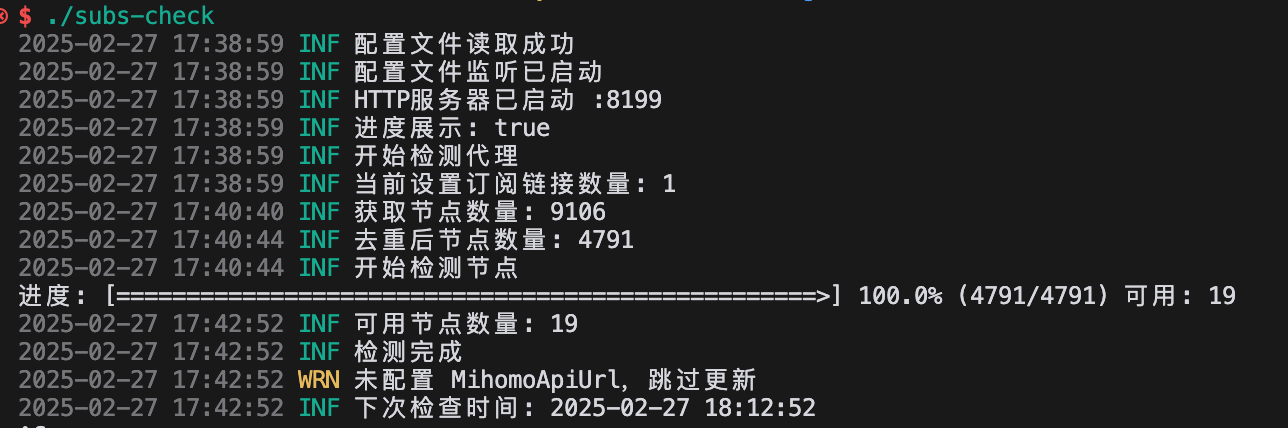
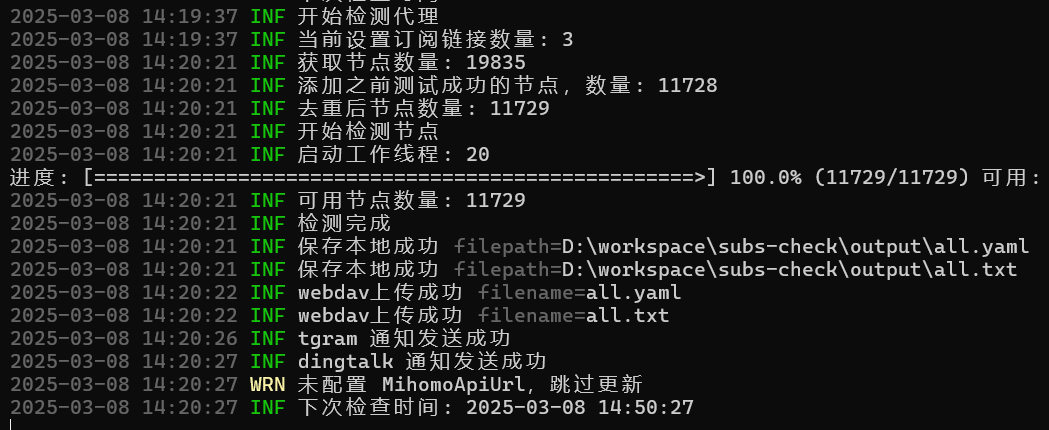
feat: 添加通知渠道

Changed region(s): [[0.0, 0.0, 0.9762, 1.0]]

diff --git a/utils/notify.go b/utils/notify.go
@@ -1,0 +1,70 @@
+package utils
+
+import (
+	"bytes"
+	"encoding/json"
+	"fmt"
+	"log/slog"
+	"net/http"
+	"strings"
+
+	"github.com/beck-8/subs-check/config"
+)
+
+// NotifyRequest 定义发送通知的请求结构
+type NotifyRequest struct {
+	URLs  string `json:"urls"`  // 通知目标的 URL（如 mailto://、discord://）
+	Body  string `json:"body"`  // 通知内容
+	Title string `json:"title"` // 通知标题（可选）
+}
+
+// Notify 发送通知
+func Notify(request NotifyRequest) error {
+	// 构建请求体
+	body, err := json.Marshal(request)
+	if err != nil {
+		return fmt.Errorf("构建请求体失败: %w", err)
+	}
+
+	// 发送请求
+	resp, err := http.Post(config.GlobalConfig.AppriseApiServer, "application/json", bytes.NewBuffer(body))
+	if err != nil {
+		return fmt.Errorf("发送请求失败: %w", err)
+	}
+	defer resp.Body.Close()
+
+	// 检查响应状态码
+	if resp.StatusCode != http.StatusOK {
+		return fmt.Errorf("通知失败，状态码: %d", resp.StatusCode)
+	}
+
+	return nil
+}
+
+func SendNotify(length int) {
+	if config.GlobalConfig.AppriseApiServer == "" {
+		return
+	} else if len(config.GlobalConfig.RecipientUrl) == 0 {
+		slog.Error("没有配置通知目标")
+		return
+	}
+
+	for _, url := range config.GlobalConfig.RecipientUrl {
+		request := NotifyRequest{
+			URLs:  url,
+			Body:  fmt.Sprintf("检测到 %d 个节点可用", length),
+			Title: "节点检测完成",
+		}
+		var err error
+		for i := 0; i < config.GlobalConfig.SubUrlsReTry; i++ {
+			err = Notify(request)
+			if err == nil {
+				slog.Info(fmt.Sprintf("%s 通知发送成功", strings.SplitN(url, "://", 2)[0]))
+				break
+			}
+		}
+		if err != nil {
+			slog.Error(fmt.Sprintf("%s 发送通知失败: %v", strings.SplitN(url, "://", 2)[0], err))
+		}
+	}
+}

diff --git a/config/config.go b/config/config.go
@@ -28,6 +28,8 @@ type Config struct {
 	RenameNode         bool     `yaml:"rename-node"`
 	KeepSuccessProxies bool     `yaml:"keep-success-proxies"`
 	OutputDir          string   `yaml:"output-dir"`
+	AppriseApiServer   string   `yaml:"apprise-api-server"`
+	RecipientUrl       []string `yaml:"recipient-url"`
 }
 
 var GlobalConfig = &Config{

diff --git a/main.go b/main.go
@@ -210,6 +210,7 @@ func (app *App) checkProxies() error {
 
 	slog.Info("检测完成")
 	save.SaveConfig(results)
+	utils.SendNotify(len(results))
 	utils.UpdateSubs()
 	return nil
 }

diff --git a/README.md b/README.md
@@ -7,7 +7,9 @@
 ## 预览
 
 ![preview](./doc/images/preview.png)
-![result](./doc/images/results.jpg)
+![result](./doc/images/results.png)
+![tgram](./doc/images/tgram.png)
+![dingtalk](./doc/images/dingtalk.png)
 
 ## 功能
 
@@ -25,6 +27,7 @@
 - 节点测速（单线程）
 - 根据解锁情况分类保存
 - 支持外部拉取结果（默认监听 :8199）
+- 支持100+ 个通知渠道 通知检测结果
 
 ## 特点
 
@@ -43,8 +46,9 @@
     - [x] http server
     - [ ] 其他
 - [ ] 已知从clash格式转base64时vmess节点会丢失。因为太麻烦了，我不想处理了。
+- [ ] 可能在某些平台、某些环境下长时间运行还是会有内存溢出的问题
 
-## 使用方法
+## 测速使用方法
 > 如果拉取订阅速度慢，可使用通用的 `HTTP_PROXY` `HTTPS_PROXY` 环境变量加快速度；此变量不会影响节点测试速度
 
 > 因为上游订阅链接可能是爬虫，所以本地可用的节点经常被刷新掉，所以可以使用 `keep-success-proxies` 参数持久保存测试成功的节点
@@ -54,7 +58,8 @@
 
 ```bash
 docker run -d --name subs-check -p 8199:8199 -v ./config:/app/config  -v ./output:/app/output --restart always ghcr.io/beck-8/subs-check:latest
-
+```
+```bash
 # 如果想使用代理，加上环境变量，如
 docker run -d --name subs-check -p 8199:8199  -e HTTP_PROXY=http://192.168.1.1:7890 -e HTTPS_PROXY=http://192.168.1.1:7890 -v ./config:/app/config  -v ./output:/app/output --restart always ghcr.io/beck-8/subs-check:latest
 ```
@@ -91,6 +96,31 @@ go run main.go -f /path/to/config.yaml
 
 直接运行即可,会在当前目录生成配置文件
 
+## 通知渠道配置方法
+目前，此项目使用[Apprise](https://github.com/caronc/apprise)发送通知，并支持 100+ 个通知渠道。  
+但是 apprise 库是用 Python 编写的，Cloudflare 最近发布的 python worker在部署 apprise 时仍然存在问题  
+所以我们下边提供两种部署方式的教程（当然实际不止两种）
+### Vercel serverless 部署
+1. 请单击[**此处**](https://vercel.com/new/clone?repository-url=https://github.com/beck-8/apprise_vercel)即可在您的 Vercel 帐户上部署 Apprise  
+2. 部署后，您将获得一个类似 `https://testapprise-beck8s-projects.vercel.app/` 的链接，在其后附加`/notify` ，然后您将获得 Apprise API 服务器的链接： `https://testapprise-beck8s-projects.vercel.app/notify`
+3. 请将你的Vercel项目添加一个自定义域名，因为Vercel在国内几乎访问不了
+
+### docker部署
+```bash
+docker run --name apprise -p 8000:8000 --restart always -d caronc/apprise:latest
+```
+```bash
+# 如果你将docker部署在国内，你还想要发送到国外的平台，那需要添加 HTTP_PROXY HTTPS_PROXY 环境变量
+docker run --name apprise \
+   -p 8000:8000 \
+   -e HTTP_PROXY=http://192.168.1.1:7890 \
+   -e HTTPS_PROXY=http://192.168.1.1:7890 \
+   --restart always \
+   -d caronc/apprise:latest
+```
+
+然后根据[Apprise wiki](https://github.com/caronc/apprise/wiki)编写发送通知的 URL，其中有关于如何设置每个通知渠道的详细文档和说明。例如，对于电报，您的 URL 是`tgram://botToken/chatId`，我在默认配置里边写了一些示例，可以当作参考
+
 ## 保存方法配置
 
 - 本地保存: 将结果保存到本地,默认保存到可执行文件目录下的 output 文件夹
@@ -102,7 +132,7 @@ go run main.go -f /path/to/config.yaml
 - `http://127.0.0.1:8199/all.yaml` 返回yaml格式节点
 - `http://127.0.0.1:8199/all.txt` 返回base64格式节点
 
-可以直接将base64格式订阅放到V2rayN中
+可以直接将base64格式订阅放到V2rayN中或者Mihomo party当中
 ![subset](./doc/images/subset.jpeg)
 ![nodeinfo](./doc/images/nodeinfo.jpeg)
 
